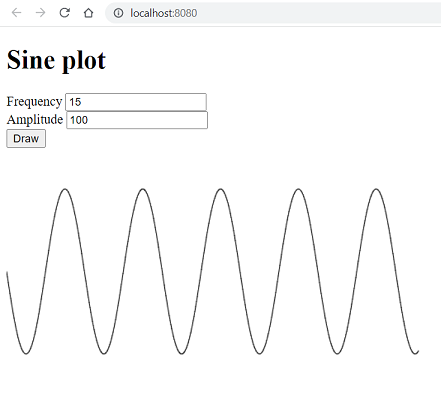
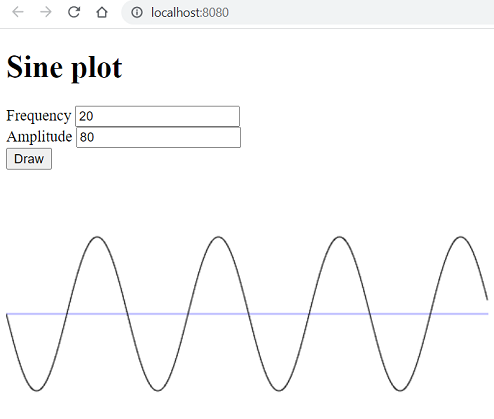
axis added

diff --git a/src/lib.rs b/src/lib.rs
@@ -42,10 +42,23 @@ fn plot_sine(ctx: &web_sys::CanvasRenderingContext2d, amplitude: f64, frequency:
 
     ctx.clear_rect(0.0, 0.0, CANVAS_WIDTH, CANVAS_HEIGHT);
     ctx.begin_path();
-      
+
+    // Draw axis
+    ctx.set_stroke_style(&JsValue::from("#0000FF"));
+    ctx.set_line_width(0.5);
+    ctx.move_to(0.0, CANVAS_HEIGHT / 2.0);
+    ctx.line_to(CANVAS_WIDTH, CANVAS_HEIGHT / 2.0);
+    ctx.stroke();
+    ctx.close_path();
+    ctx.begin_path();
+
+    // Draw sine wave
     let mut x: u16 = 0;
     let mut y: f64 = 0.0;
-      
+ 
+    ctx.set_stroke_style(&JsValue::from("#000000"));
+    ctx.set_line_width(1.0);
+    
     while x < CANVAS_WIDTH as u16 {
         y = (CANVAS_HEIGHT / 2.0) + amplitude * f64::sin(x as f64/ frequency);
         ctx.line_to(x as f64, y);
